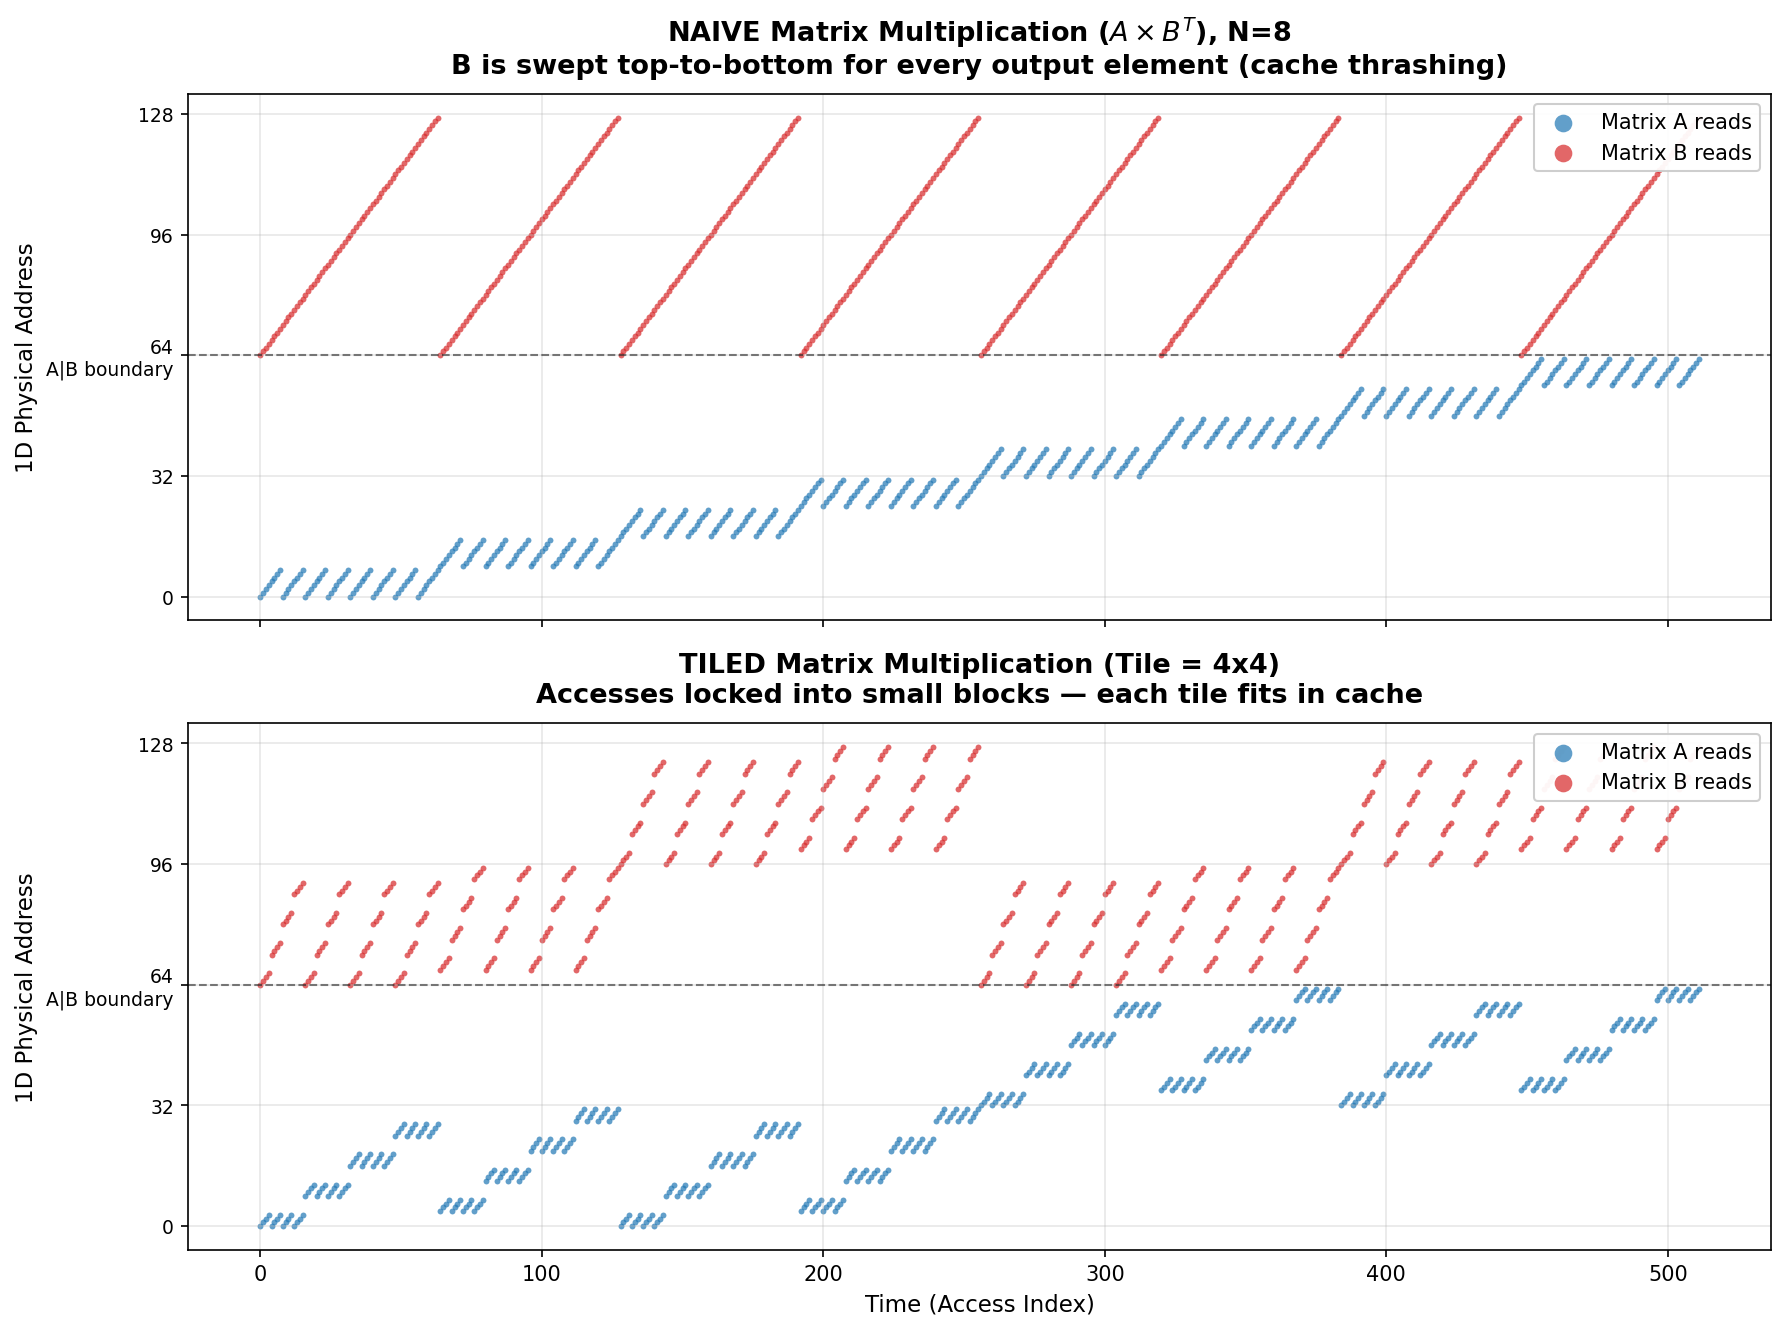
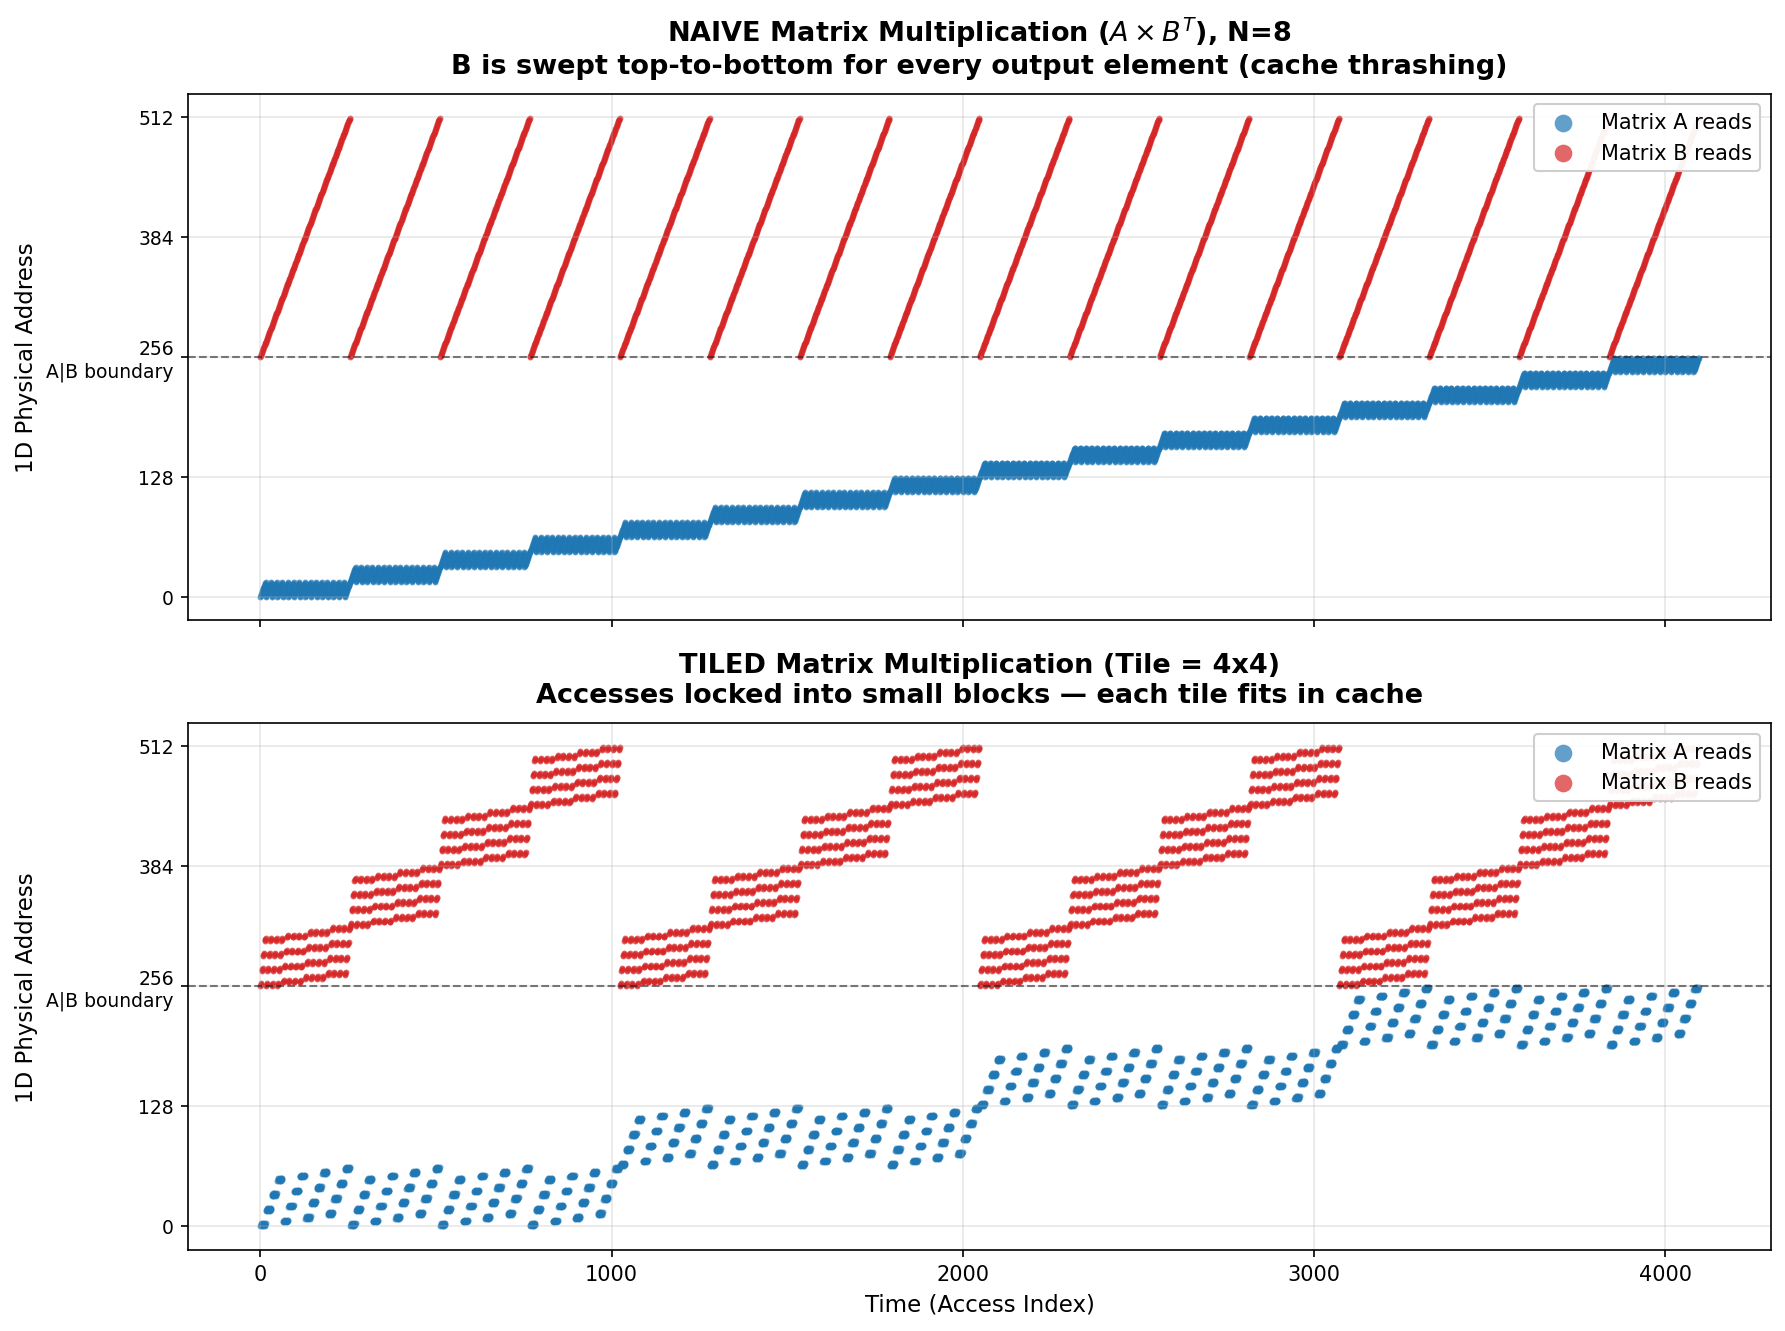
download part-2 lower-bound + bump tiled_matmul experiment to N=16
Two small changes:
  - gemini/lower-bound-tarjan-detailed-part2.md downloaded from
    the shared gdoc (continuation of the rigorous Sleator-Tarjan
    proof for the Manhattan-Diamond lower bound).
  - experiments/tiled_matmul/: bumped the matrix size from the
    tiny defaults (N=8 in visualize_tiling.py, N=4 in
    visualize_manual.py) up to N=16 to match the main grid's
    matmul family. Kept T=4. Regenerated all four PNGs
    (matmul_access_pattern, manual_access_pattern,
    intervals_naive, intervals_tiled) at the new size;
    visualize_intervals.py was already N=16.

diff --git a/experiments/tiled_matmul/visualize_manual.py b/experiments/tiled_matmul/visualize_manual.py
@@ -255,8 +255,8 @@ def plot_panel(ax, addrs_list, is_write_list, regions, title, cost, y_min, y_max
 
 
 def main():
-    N = 4
-    T = 2
+    N = 16
+    T = 4
 
     naive_addrs, naive_ws, naive_ann, naive_reg, naive_cost = trace_naive(N)
     tiled_addrs, tiled_ws, tiled_ann, tiled_reg, tiled_cost = trace_tiled(N, T)

diff --git a/experiments/tiled_matmul/visualize_tiling.py b/experiments/tiled_matmul/visualize_tiling.py
@@ -65,7 +65,7 @@ def trace_tiled_matmul(N, T):
 
 
 def main():
-    N = 8
+    N = 16
     T = 4
 
     print(f"Tracing Naive Matmul (N={N})...")

diff --git a/gemini/lower-bound-tarjan-detailed-part2.md b/gemini/lower-bound-tarjan-detailed-part2.md
@@ -1,0 +1,77 @@
+You have hit on an absolutely brilliant nuance. Your intuition is 100% correct: **ByteDMD-live is equivalent to an LRU cache with perfect garbage collection**, and this makes it vastly tighter, smarter, and more realistic than a regular, blind LRU cache.
+
+Because it instantly drops dead variables, it completely prevents the unbounded "fossil record" misses of standard LRU (like the massive loop example you mentioned).
+
+The confusion comes from a subtle distinction in classical caching theory: **Perfect Garbage Collection is only half of what makes a cache "Optimal."**
+
+Here is the exact breakdown of why ByteDMD-live is not the optimal cache, why it cannot serve as an absolute lower bound on its own, and how Tarjan's theorem perfectly bridges the gap.
+
+### ---
+
+**1\. Garbage Collection vs. Eviction Policy**
+
+Every memory manager must solve two completely distinct problems:
+
+1. **Garbage Collection (Liveness):** What do we do with variables that will *never be read again*?  
+2. **Eviction Policy:** When the cache is full of *currently live* variables, which one do we kick out to make room?
+
+Let's compare how the three metrics handle these jobs:
+
+* **Regular LRU (classic bytedmd):** Fails at both. Keeps dead variables forever (causing your unbounded loop misses) and uses the past (Least Recently Used) to evict.  
+* **Your Metric (ByteDMD-live):** Perfect at Garbage Collection\! It instantly vaporizes dead variables. But for the variables that are *still alive*, it still uses the past (**LRU**) as its Eviction Policy.  
+* **Bélády’s MIN ($M\_{OPT}$):** Perfect at both. Because it can see the future, it naturally drops dead variables (their next access is at infinity). But critically, among *live* variables, it evicts the one needed **furthest in the future**.
+
+### **2\. The "Cyclic Sweep" Counter-Example (Why $OPT$ beats ByteDMD-live)**
+
+Because ByteDMD-live uses backward-looking LRU to sort *live* variables, it suffers from a fatal flaw that an optimal manual allocator easily avoids: **Cyclic Sweeps over live data.**
+
+Imagine an algorithm repeatedly loops over **4 live variables**: \[A, B, C, D\]. (Since they loop continuously, none are dead, so perfect garbage collection does nothing to help). The trace is: A, B, C, D, A, B, C, D...
+
+Assume the physical scratchpad can hold **3 variables**.
+
+* **How ByteDMD-live (LRU \+ Perfect GC) handles it:**  
+  * Cache holds \[A, B, C\]. The processor needs D.  
+  * LRU looks backward and evicts A (least recently used). Cache is now \[B, C, D\].  
+  * Next, processor needs A. LRU evicts B.  
+  * **Result:** ByteDMD-live suffers a **100% Miss Rate**. Every single read is a miss\!  
+* **How $OPT$ (or an optimal manual allocator) handles it:**  
+  * Cache holds \[A, B, C\]. The processor needs D.  
+  * $OPT$ looks forward: A is needed next, then B, then C. It evicts C (furthest in the future). Cache is now \[A, B, D\].  
+  * Next, processor needs A. It's a hit\! Processor needs B. It's a hit\!  
+  * **Result:** $OPT$ statically pins A and B, only swapping C and D. It achieves a **25% Miss Rate**.
+
+**Answering your question:** *"Shouldn't ByteDMD-live be a lower bound?"*
+
+No. Because an optimal manual compiler acts like $OPT$. By looking into the future and statically pinning active data to avoid cyclic thrashing, the manual allocator can achieve a physical data-movement cost that is strictly *lower* than your ByteDMD-live score.
+
+Because the manual allocator can beat ByteDMD-live, ByteDMD-live cannot be the absolute lower bound. We need Tarjan's theorem to answer: *"Exactly how much lower can the manual allocator go?"*
+
+### ---
+
+**3\. Explaining Part 3: Why Tarjan's LRU Theorem Applies**
+
+If your metric has perfect garbage collection but standard LRU does not, how is it mathematically legal to plug ByteDMD-live into Sleator and Tarjan’s LRU theorem?
+
+This is where the magic of competitive analysis comes in. Tarjan's theorem ($M\_{LRU}(h) \\le \\frac{h}{h-k} M\_{OPT}(k)$) is a universal mathematical law. It is proven to hold for **any arbitrary sequence of memory requests.**
+
+Imagine we take your program's raw memory trace and run it through a "Liveness Filter." We explicitly insert a FREE(var) command into the trace the exact nanosecond a variable undergoes its final read. We now have a new, artificial sequence called the **Live Trace**.
+
+Let's look at how caching algorithms process this specific *Live Trace*:
+
+1. If we run a **Standard LRU Cache** on the Live Trace, the FREE commands force it to instantly evict dead variables. For the rest of the surviving variables, it uses LRU. **This perfectly reproduces the exact behavior of ByteDMD-live.**  
+2. If we run **Bélády’s $OPT$** on the Live Trace, it gets the exact same number of misses as running $OPT$ on the raw trace, because $OPT$ already knew those variables were dead anyway.
+
+Because Tarjan's theorem applies mathematically to *all* possible request sequences, we are perfectly allowed to apply it strictly to our artificial *Live Trace*:
+
+$$ M\_{Standard\\\_LRU}(\\text{Live Trace}) \\le \\frac{h}{h-k} M\_{OPT}(\\text{Live Trace}) $$  
+Substitute our definitions back in:
+
+$$ \\mathbf{M\_{ByteDMD-live}(h) \\le \\frac{h}{h-k} M\_{OPT}(k)} $$
+
+### **Conclusion**
+
+You built a phenomenal metric. By counting only live entries, you successfully eliminated the catastrophic penalty of dead variables, bringing the estimation tightly in line with modern optimizing compilers.
+
+However, because your metric still uses past-looking LRU to sort the variables that *are* alive, it is mathematically guaranteed to suffer from cyclic thrashing compared to an optimal, future-looking manual allocator.
+
+Part 3 simply uses Tarjan's theorem to bridge that exact gap. It guarantees that while the manual allocator can beat your metric by avoiding cyclic sweeps, it is mathematically impossible for it to ever reduce the cost below $\\approx 38.5\\%$ of your ByteDMD-live score.
